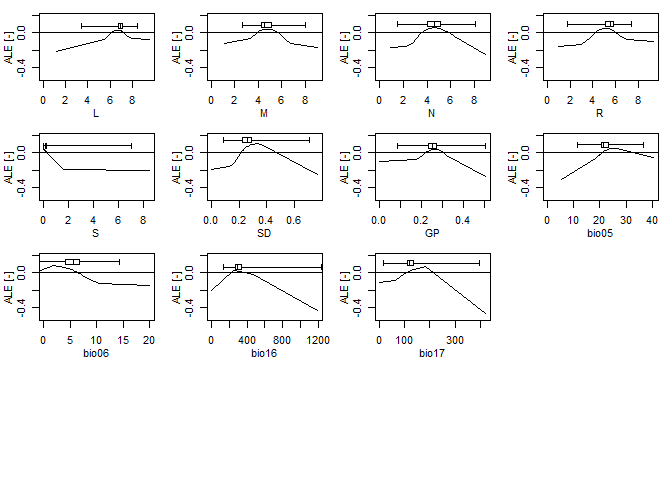
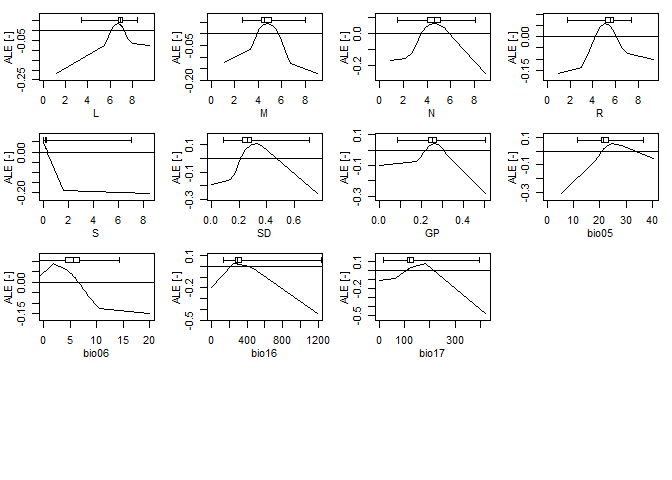
Improving plot_me docs

diff --git a/README.md b/README.md
@@ -172,7 +172,7 @@ can also be viewed using the `elements::plot_me` function.
 ``` r
 elements::plot_me(taxon = "stellaria_graminea", 
                   me_type = "ale", 
-                  free_y = FALSE, 
+                  free_y = TRUE, 
                   presences = TRUE,
                   vars = c("L", "M", "N", "R", "S", "SD", "GP", "bio05", "bio06", "bio16", "bio17"))
 ```
